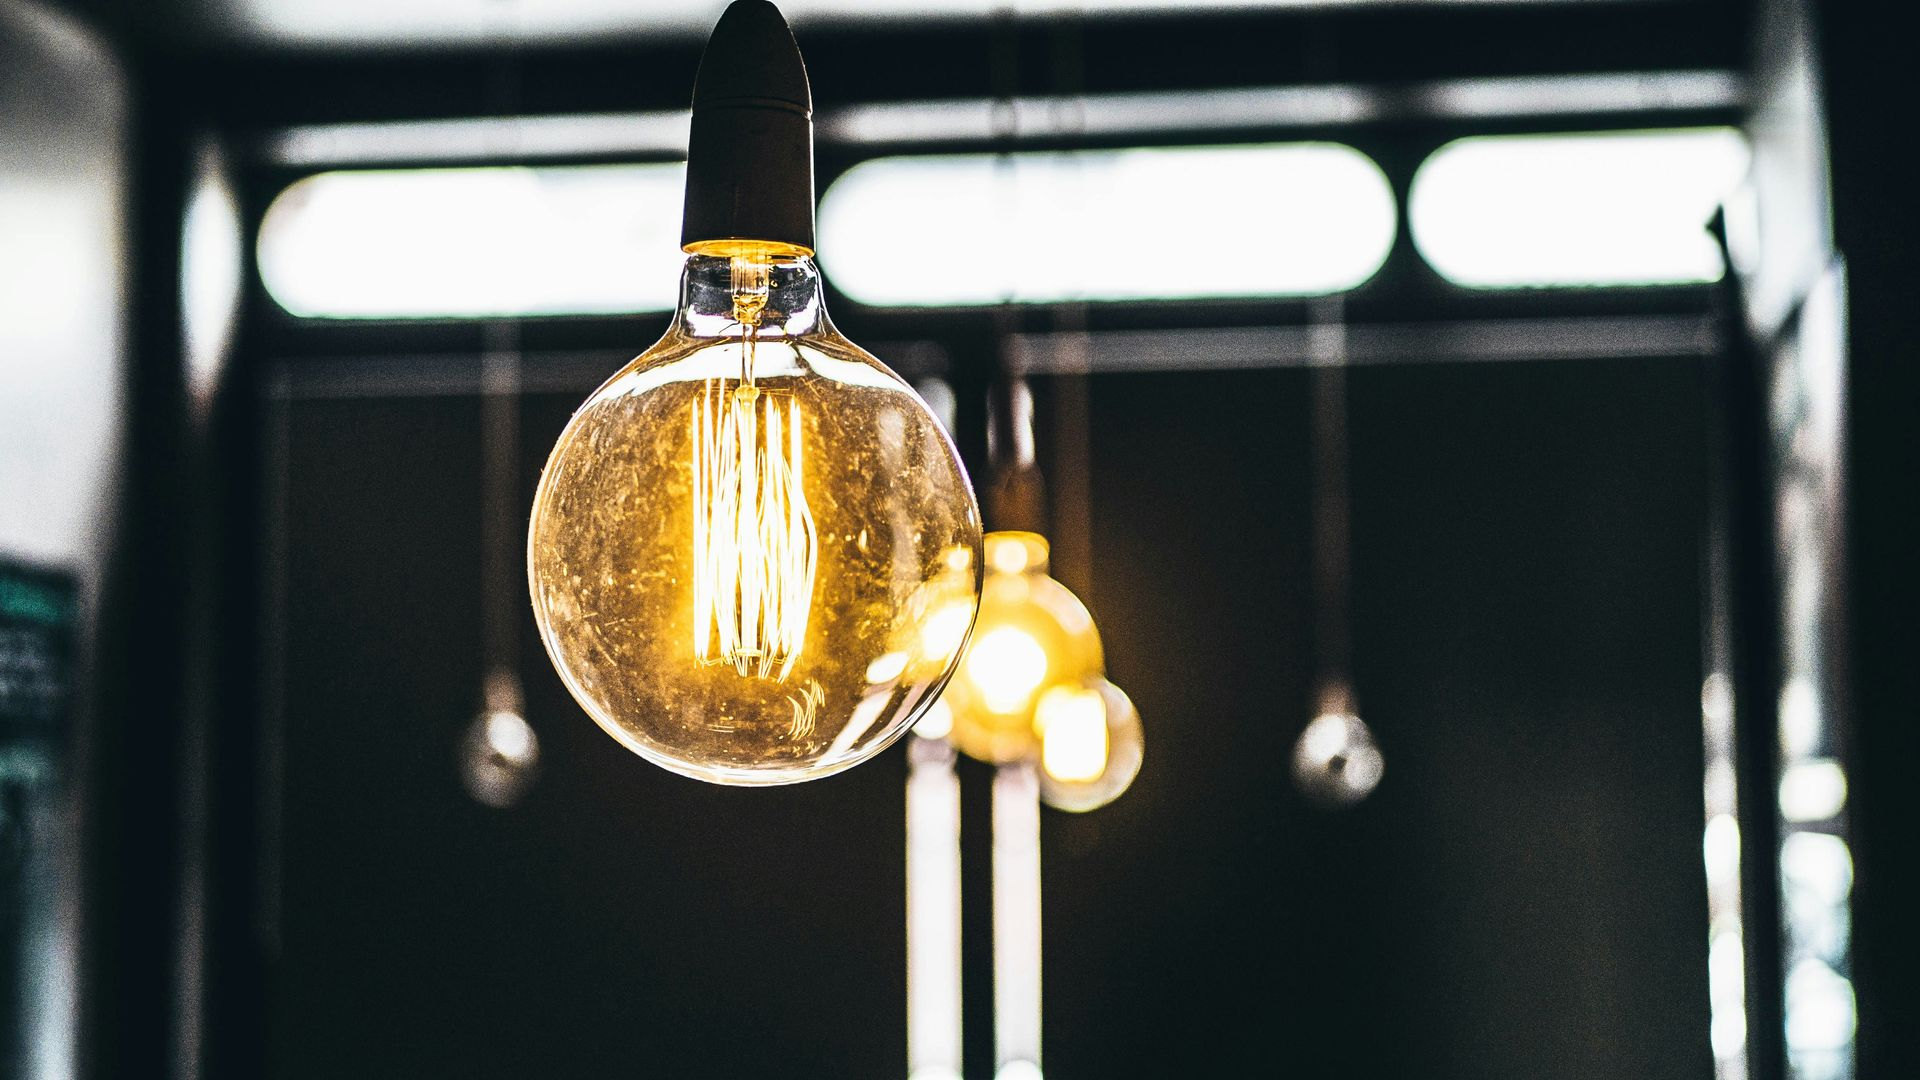
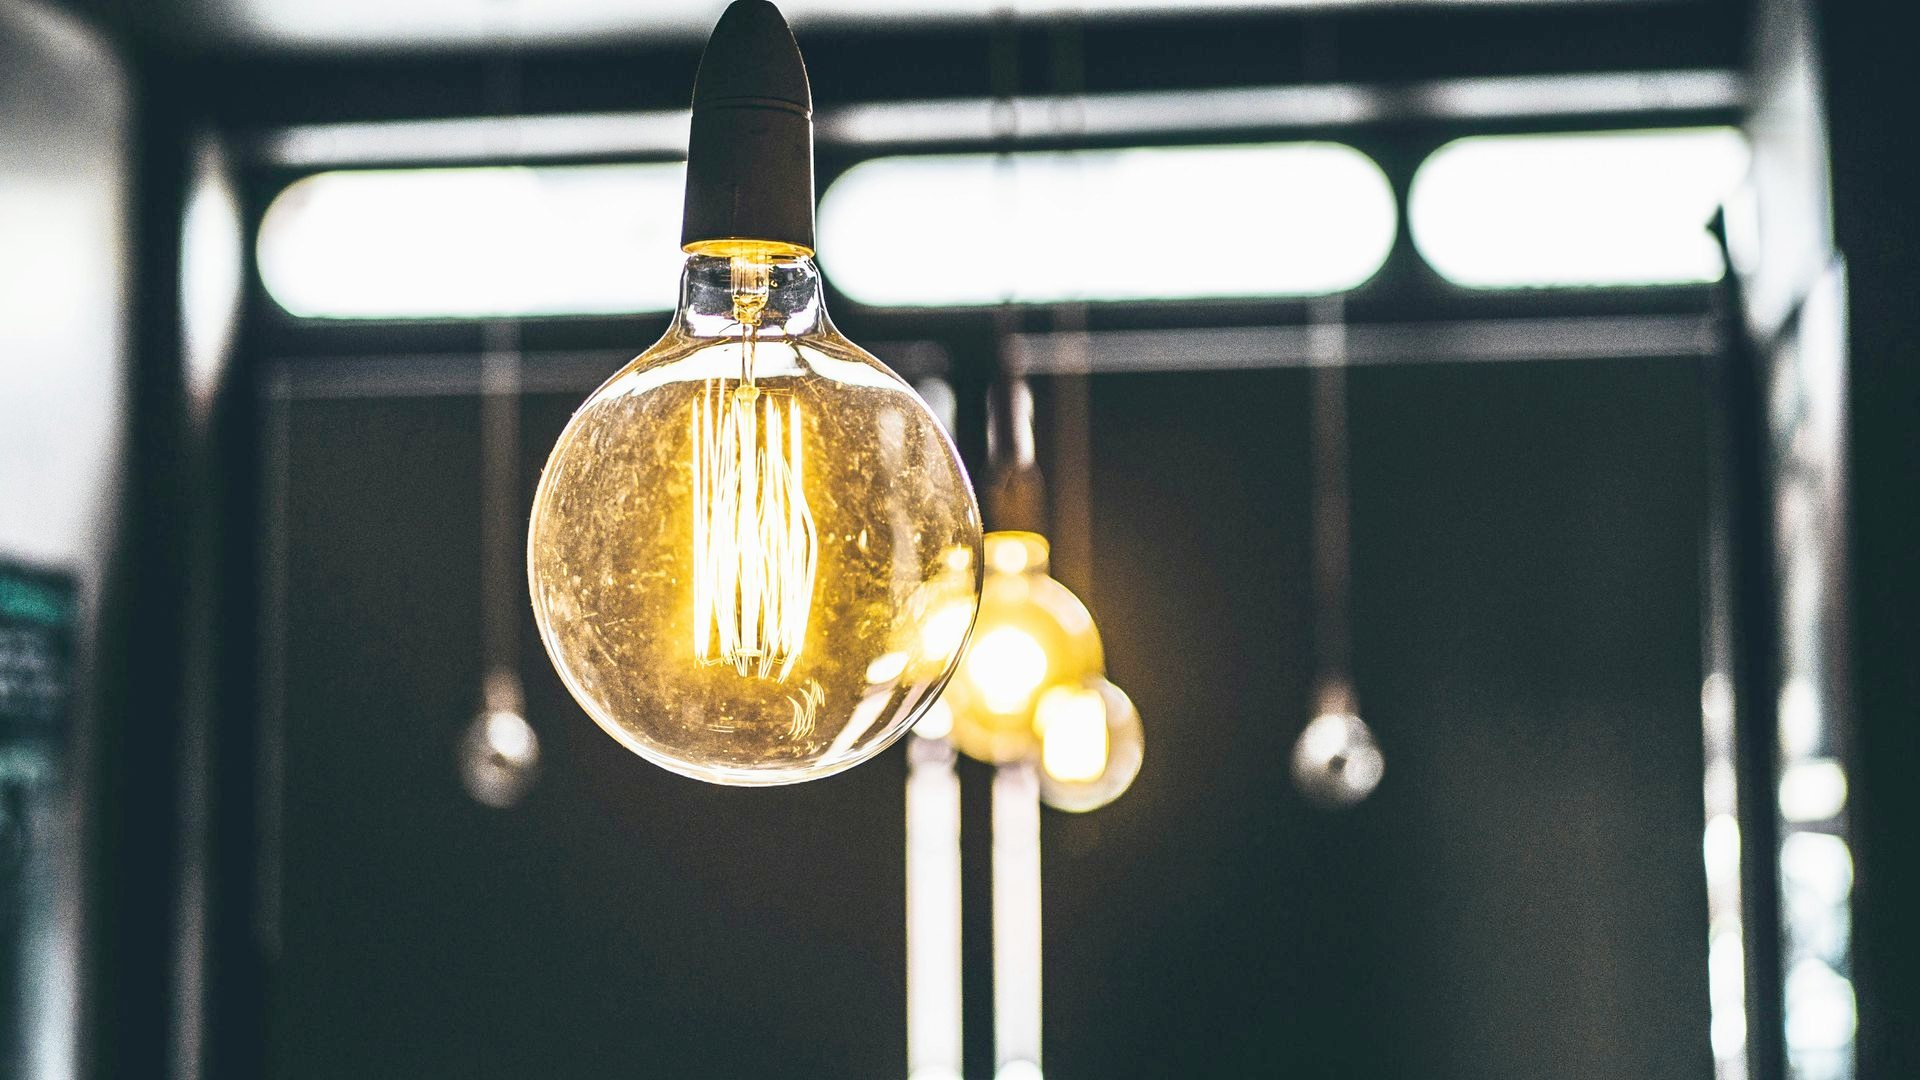
Kopffotos aufgehellt, Verlauf auch quer pro Foto gesteuert
Vier dunkle Kopffotos per Gammakurve auf 105 mittlere Helligkeit angehoben
(hero-0 von 63, hero-eauto von 78, hero-4 von 87, hero-solar von 95).
hero-echeck und hero-plan blieben unangetastet, die waren schon hell.

Dabei fiel ein Fehler auf, den es schon vorher gab: auf dem Desktop
erreichte die gelbe Vorzeile ueber hero-echeck nur 3,8:1 statt der von
WCAG AA geforderten 4,5:1, der Fliesstext 4,2:1. Ursache war der feste
mittlere Halt 0,66 im Querverlauf. Er ist jetzt wie am Handy pro Foto
gesetzt (data-quer); nur hero-echeck und hero-4 brauchen mehr, die
uebrigen drei bleiben bei 0,66 und damit so hell wie bisher.

Gemessen in den Kaesten der Textelemente, 1440 px und 390 px, alle fuenf
Fotos. Vorher fielen drei Werte durch (Desktop hero-echeck zweimal, Handy
hero-echeck und hero-4), nachher keiner.

Helligkeit des Kopfbereichs am Handy, vorher -> nachher:
  hero-0       69 -> 89     hero-echeck  102 -> 120
  hero-eauto   57 -> 71     hero-solar    68 ->  81
  hero-4       74 -> 84

Gesamtpruefung: 10 Seiten x 3 Breiten x 2 Kopfzustaende, null Befunde.

Claude-Session: https://claude.ai/code/session_01HYfpm2ZqaM99NcP3Z1N3sK

diff --git a/index.html b/index.html
@@ -236,7 +236,16 @@
   }
   /* Der Verlauf haelt den Text rechts lesbar, laesst das Foto aber nach
      links hin deutlich durch -- dort steht das Gesicht. */
-  .hero-overlay{position:absolute;inset:0;background:linear-gradient(270deg, rgba(26,34,42,.88) 0%, rgba(26,34,42,.66) 55%, rgba(26,34,42,.22) 100%);}
+  /* Auf breiten Schirmen steht der Text rechts, links bleibt das Motiv
+     frei. Der mittlere Halt entscheidet, wie weit die Deckung nach links
+     reicht -- und damit ueber die Lesbarkeit am linken Ende der Zeilen.
+     Gemessen im Kasten der Textelemente: mit dem frueheren festen 0,66
+     erreichte die gelbe Vorzeile auf hero-echeck nur 3,8:1 statt der
+     geforderten 4,5:1. Das war schon vorher so. Statt den Verlauf fuer
+     alle zu verstaerken, bekommt auch hier jedes Foto seinen Wert. */
+  .hero-overlay{position:absolute;inset:0;
+    transition:--hero-quer 1.1s ease-in-out;
+    background:linear-gradient(270deg, rgba(26,34,42,.88) 0%, rgba(26,34,42, var(--hero-quer)) 55%, rgba(26,34,42,.22) 100%);}
   /* Auf schmalen Schirmen laeuft der Text ueber die ganze Breite, also auch
      ueber die helle rechte Seite. Dort deckt der Verlauf gleichmaessiger ab,
      sonst wird die Schrift auf hellen Motiven unlesbar. */
@@ -244,6 +253,7 @@
      Bildwechsel weich mitbewegt statt zu springen. Ohne @property waere
      die Zahl fuer den Browser nur Text und nicht ueberblendbar. */
   @property --hero-deckung{syntax:'<number>';inherits:true;initial-value:0.75;}
+  @property --hero-quer{syntax:'<number>';inherits:true;initial-value:0.66;}
   @media(max-width:1000px){
     /* Frueher lag ein fester Verlauf von 0,74/0,66/0,76 ueber der ganzen
        Hoehe. Vom Foto kamen dadurch nur rund ein Viertel an.
@@ -854,11 +864,11 @@
 
 <section id="hero" class="hero">
   <div class="hero-plan" aria-hidden="true">
-    <div class="hero-plan-img an" data-bild="hero-0.jpg" data-deckung="0.68" style="background-image:url('hero-0.jpg');background-position:20% center;"></div>
-    <div class="hero-plan-img" data-bild="hero-echeck.jpg" data-deckung="0.74"></div>
-    <div class="hero-plan-img" data-bild="hero-eauto.jpg" data-deckung="0.69"></div>
-    <div class="hero-plan-img" data-bild="hero-solar.jpg" data-deckung="0.68"></div>
-    <div class="hero-plan-img" data-bild="hero-4.jpg" data-deckung="0.73"></div>
+    <div class="hero-plan-img an" data-bild="hero-0.jpg" data-deckung="0.68" data-quer="0.66" style="background-image:url('hero-0.jpg');background-position:20% center;"></div>
+    <div class="hero-plan-img" data-bild="hero-echeck.jpg" data-deckung="0.74" data-quer="0.74"></div>
+    <div class="hero-plan-img" data-bild="hero-eauto.jpg" data-deckung="0.71" data-quer="0.66"></div>
+    <div class="hero-plan-img" data-bild="hero-solar.jpg" data-deckung="0.68" data-quer="0.66"></div>
+    <div class="hero-plan-img" data-bild="hero-4.jpg" data-deckung="0.74" data-quer="0.70"></div>
   </div>
   <div class="hero-overlay"></div>
   <div class="hero-content wrap">
@@ -1566,9 +1576,9 @@
     // bleibt, ohne dunkle Motive zuzudecken. Der Wert steht am Bild.
     var ueberzug = document.querySelector('.hero-overlay');
     function deckungSetzen(ebene) {
-      if (ueberzug && ebene && ebene.dataset.deckung) {
-        ueberzug.style.setProperty('--hero-deckung', ebene.dataset.deckung);
-      }
+      if (!ueberzug || !ebene) return;
+      if (ebene.dataset.deckung) ueberzug.style.setProperty('--hero-deckung', ebene.dataset.deckung);
+      if (ebene.dataset.quer)    ueberzug.style.setProperty('--hero-quer',    ebene.dataset.quer);
     }
     deckungSetzen(ebenen[0]);
 
